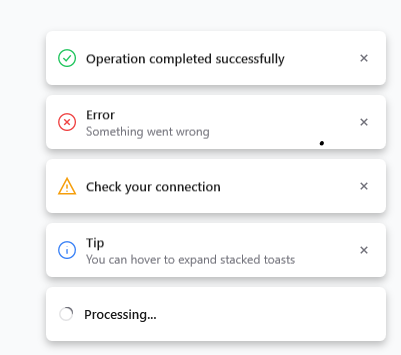
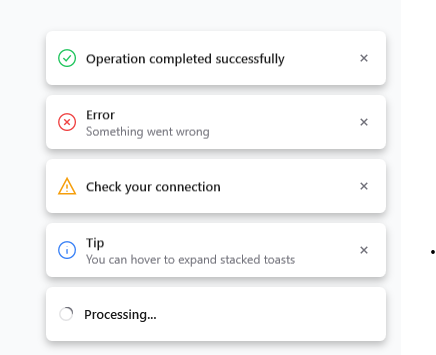
Removed black dots from example picture

diff --git a/README.md b/README.md
@@ -1,6 +1,6 @@
 # WPF Toaster
 
-I needed a clean toast system for WPF that follows MVVM properly and doesn't feel like an afterthought. Most existing solutions either break the pattern or look dated, so I built this one from scratch. It handles stacking, animations, async promise toasts, and theming — all configurable from XAML. Drop it into any project and it just works.
+I needed a clean toast system for WPF that follows MVVM properly and doesn't feel like an afterthought. Most existing solutions either break the pattern or look dated, so I built this one from scratch. It handles stacking, animations, async promise toasts, and theming, all configurable from XAML. Drop it into any project and it just works.
 
 ![Preview](preview.png)
 
